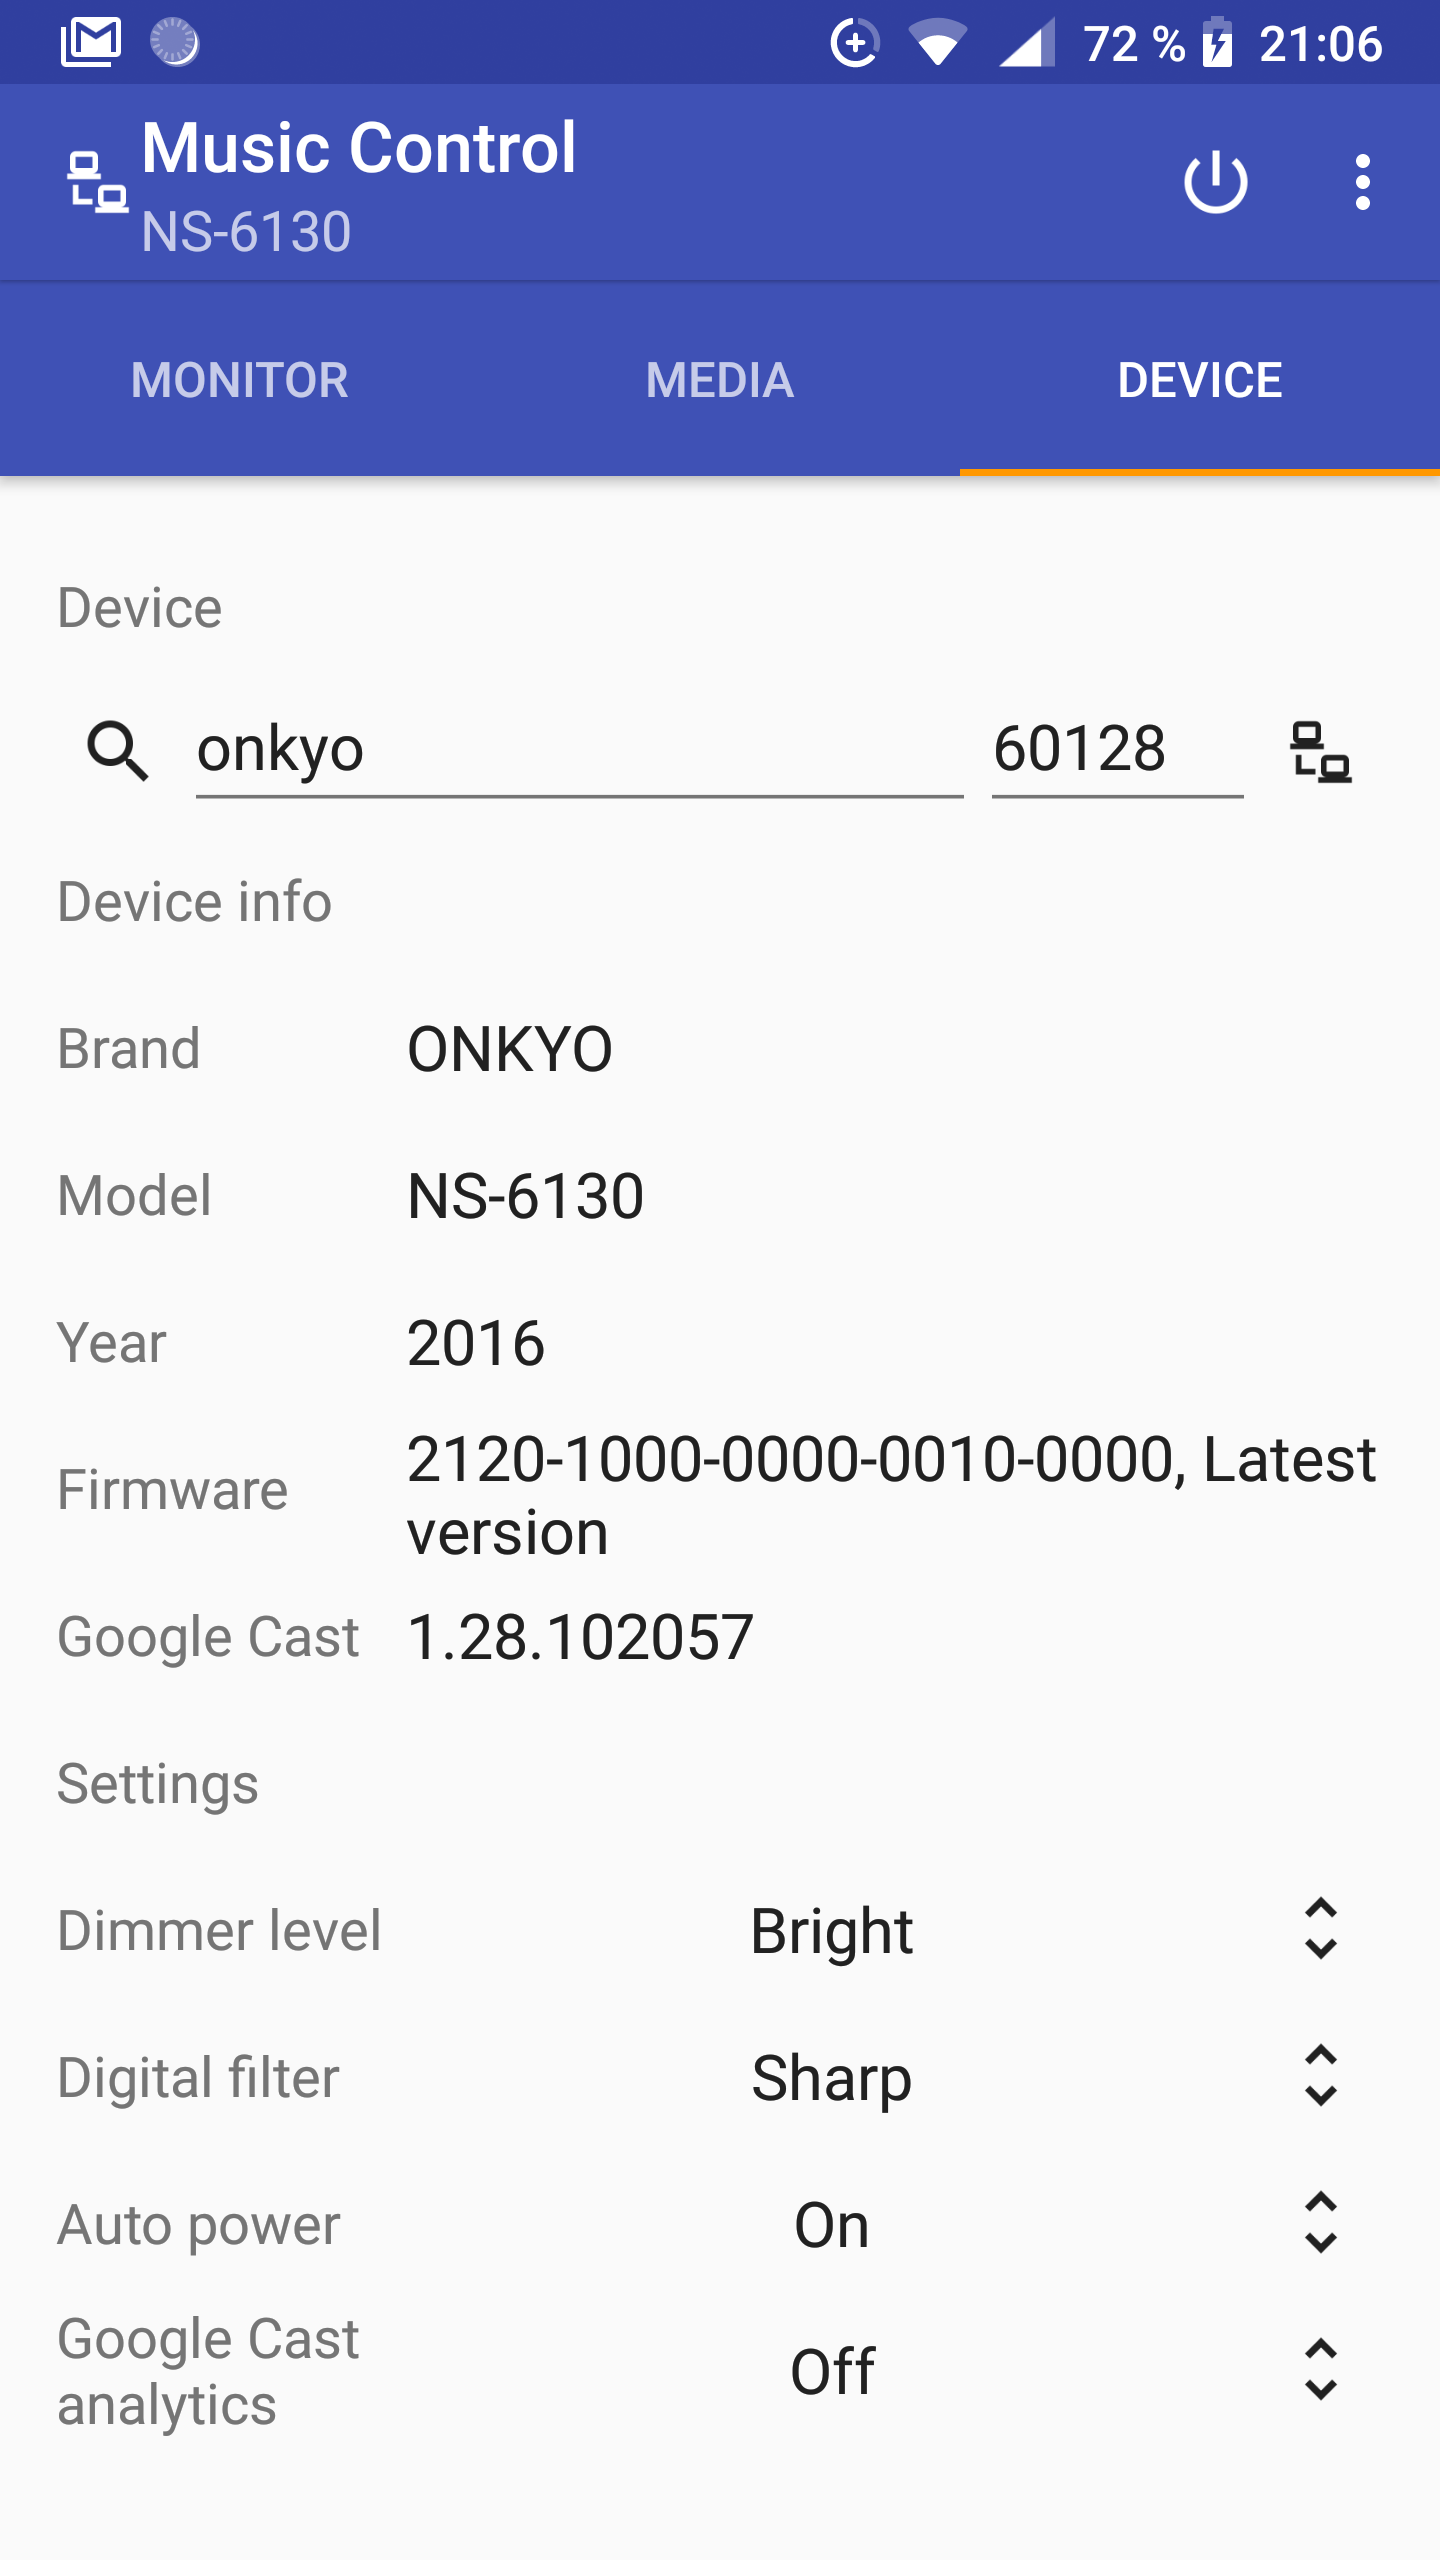
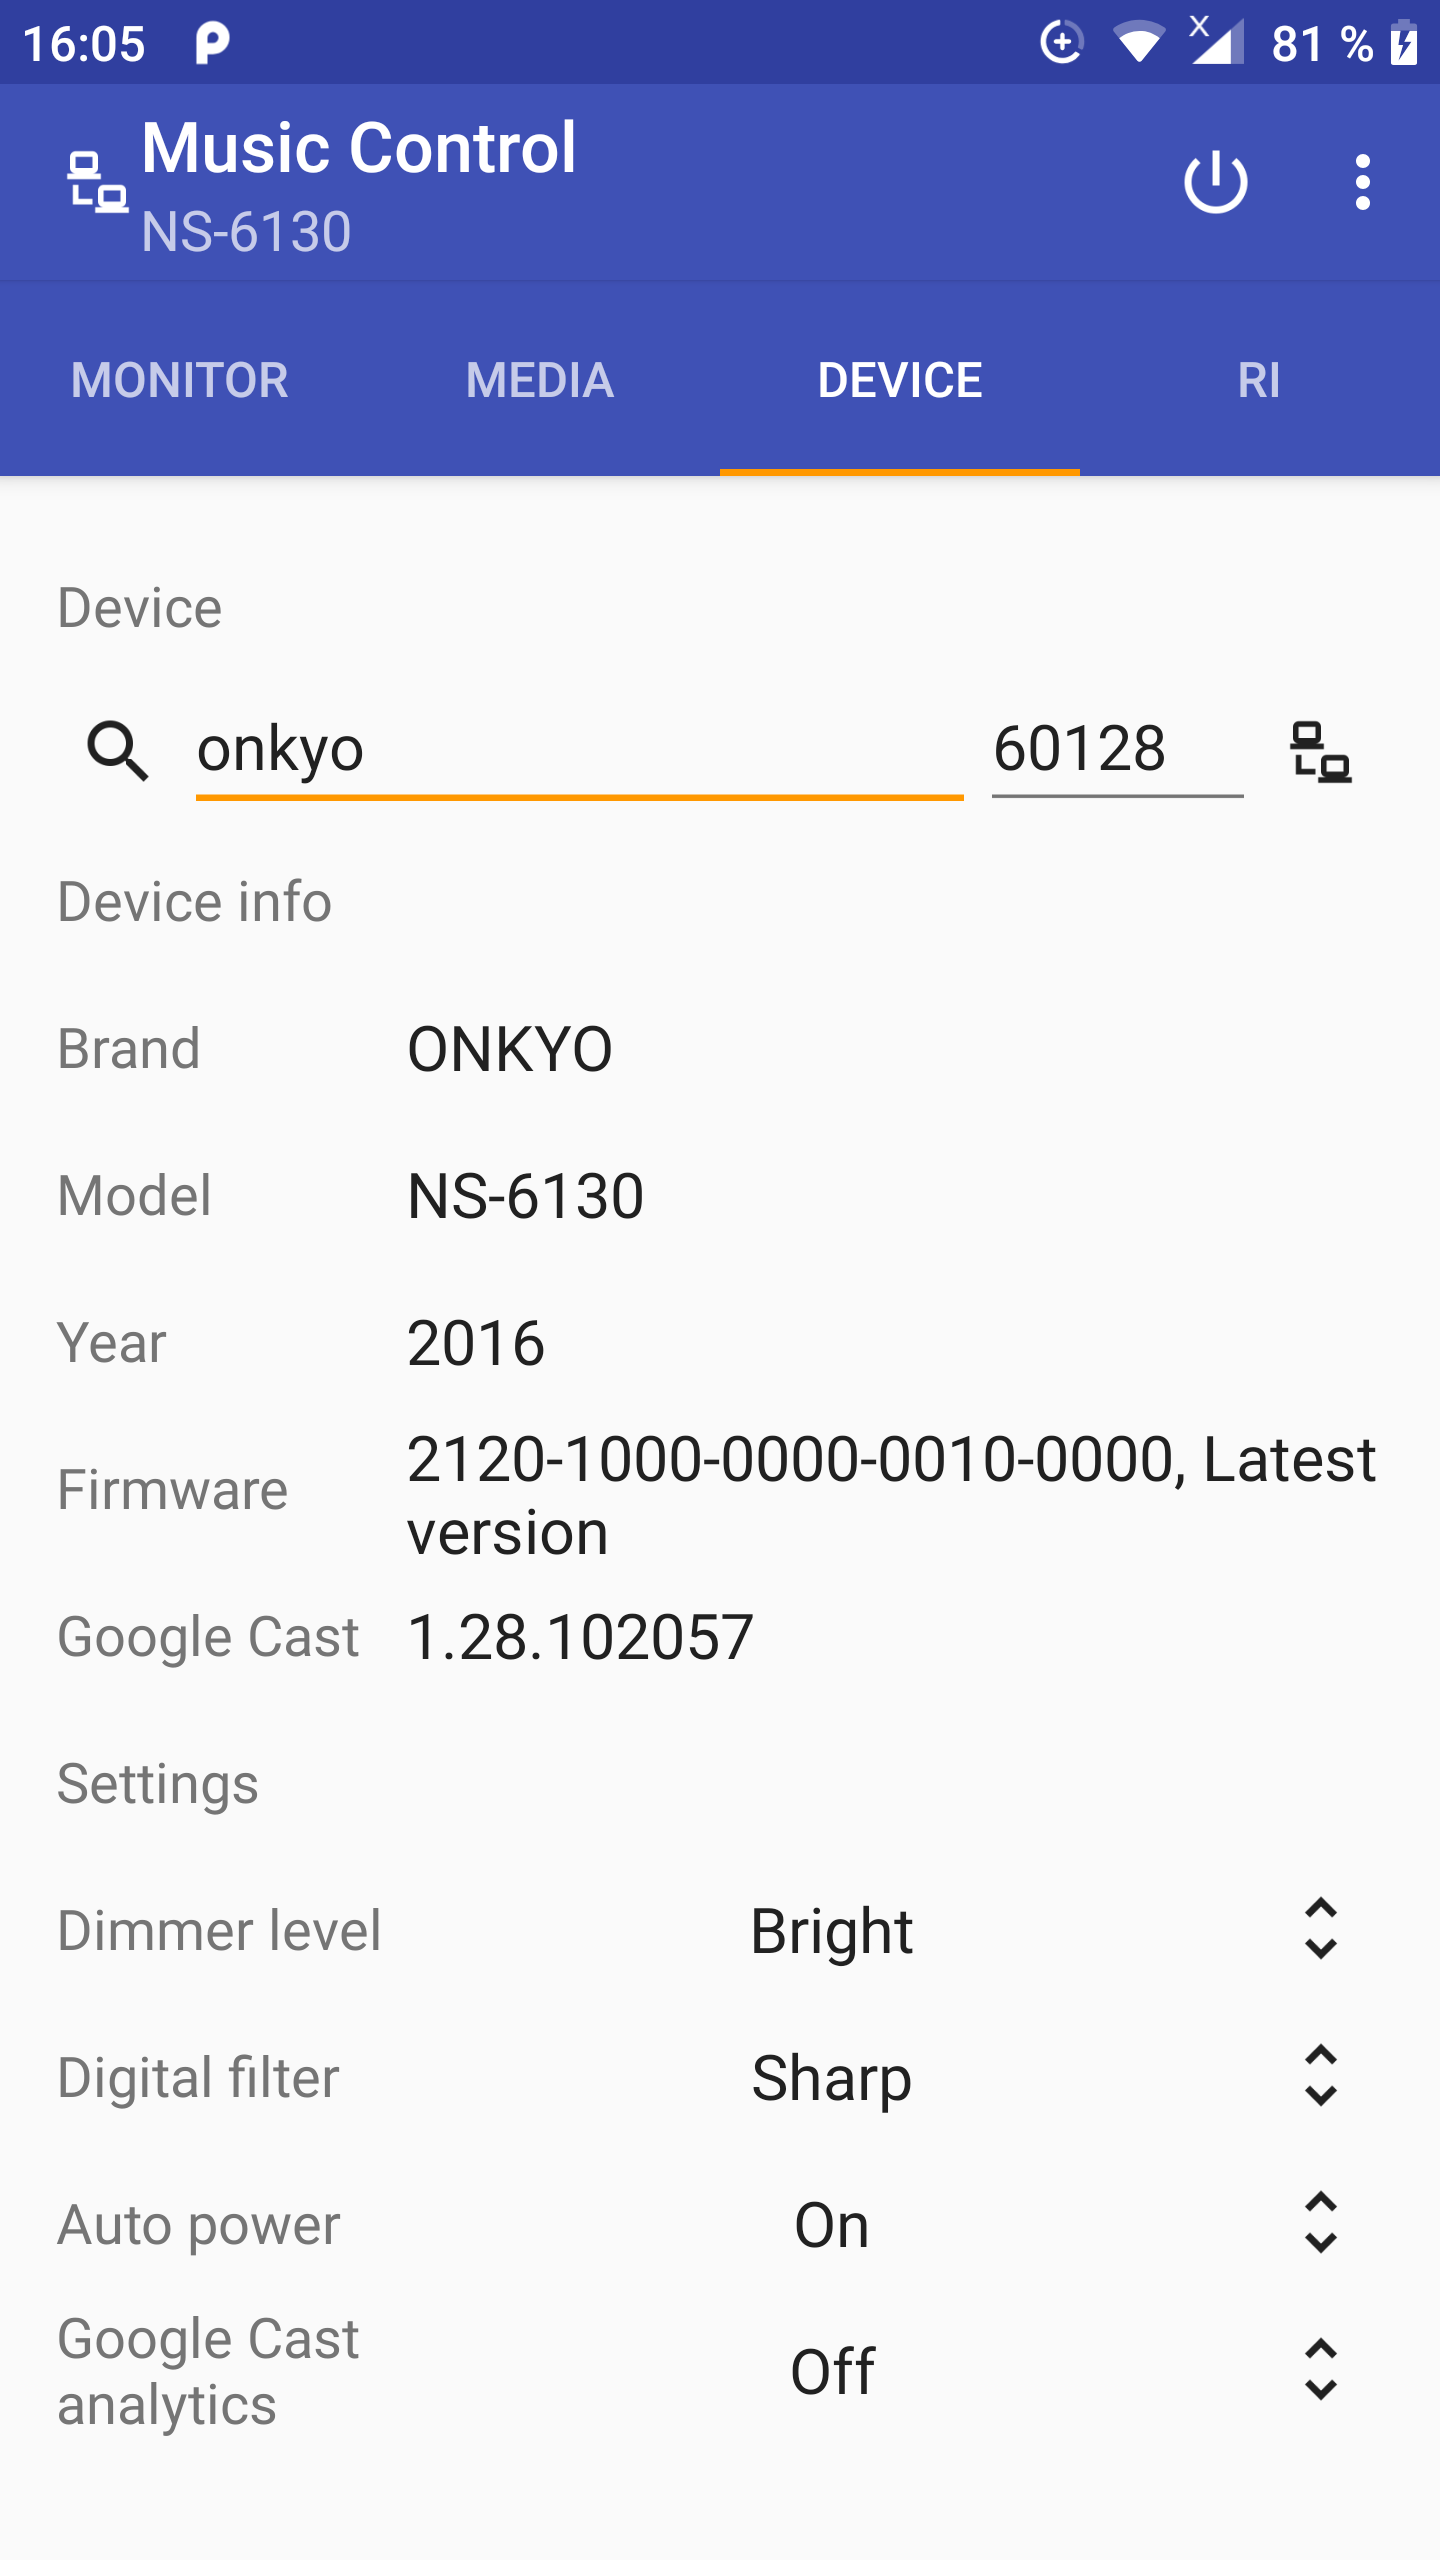
Updated description and screenshots

diff --git a/README.md b/README.md
@@ -17,6 +17,7 @@ This app allows to remotely control Onkyo Network Player or a Network A/V Receiv
 - The modern material design supports different color themes and works on smartphone or tablet in portrait and landscape mode
 - Full music playback control (play, stop, pause, track up/down, time seek, repeat and random modes)
 - Full support of Tuneln Radio and Deezer
+- Control of devices attached vie RI
 - Play queue support (add, remove, clear, change playback order)
 - Show information about the device and control some device settings (dimmer level, digital filter, auto power)
 - App doesn't need any special permissions
@@ -71,3 +72,6 @@ If not, see [www.gnu.org/licenses](https://www.gnu.org/licenses).
 ## Used Open Source Libraries
 * Material Design Icons: http://materialdesignicons.com
 * Material Design Palette: https://www.materialpalette.com
+
+## Acknowledgement
+* Thank to [Tebriz](https://github.com/tebriz159) for Logo design
